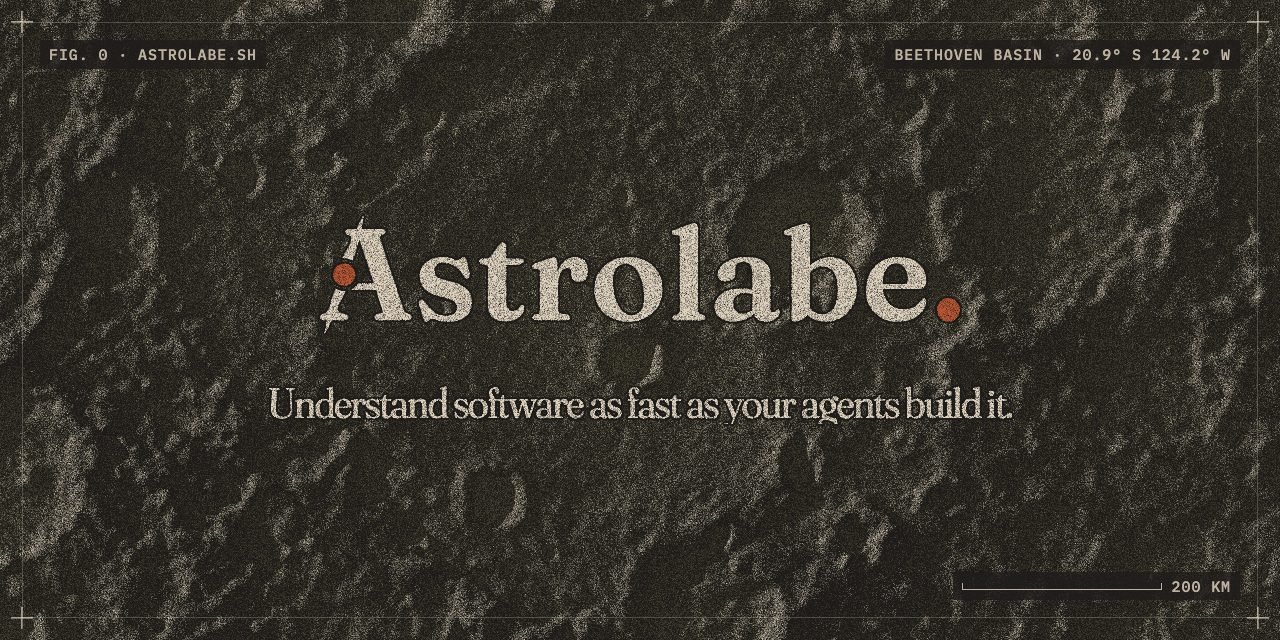
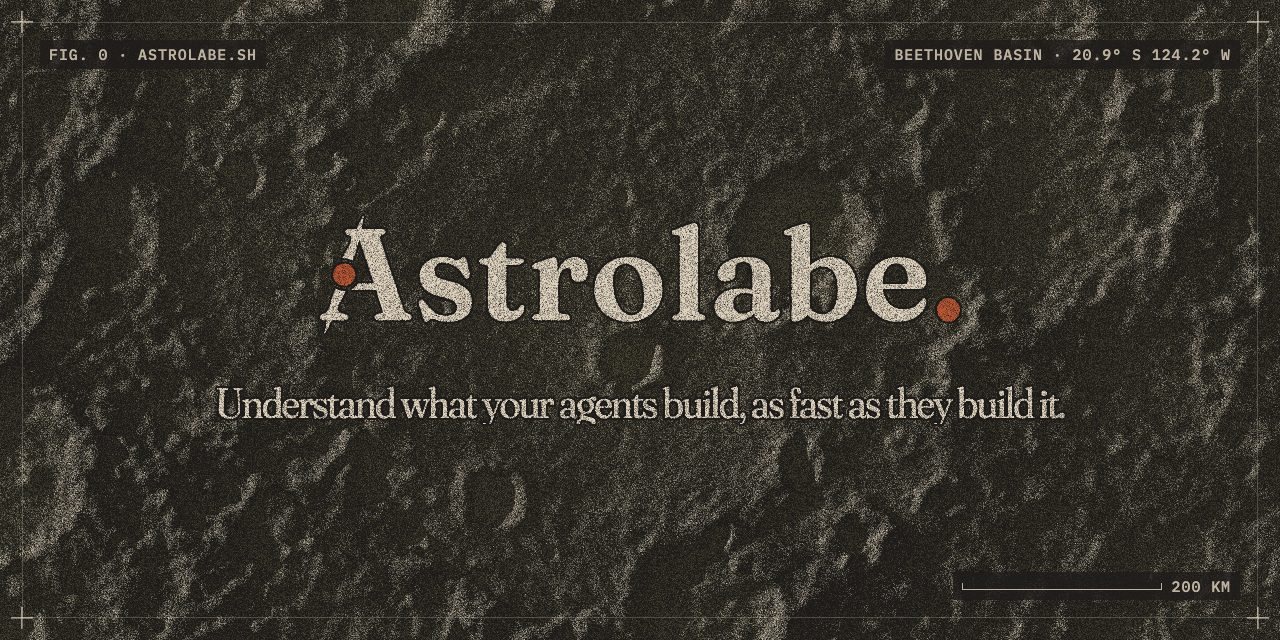
feat(landing): understand what your agents build, as fast as they build it
The headline drops "software": what a visitor understands is the agents' work. The share cards
are re-rendered with it. The two-sided cards now split their line at a comma as well as a full
stop, and the Sphinx card reads the rust from the theme now that the twilight palette is gone,
which had stopped the renderer.

Changed region(s): [[0.1562, 0.5938, 0.8438, 0.6562]]

diff --git a/apps/landing/src/site.js b/apps/landing/src/site.js
@@ -1,7 +1,7 @@
 // The page's positioning in one place: the hero's headline, the title and the share text read
 // from here, so a new line is one edit.
 
-export const headline = "Understand software as fast as your agents build it.";
+export const headline = "Understand what your agents build, as fast as they build it.";
 
 export const description =
   "Astrolabe is an agent development environment that helps your team understand what its agents build, at the speed they build it. Run Claude Code, Codex and Cursor side by side, read their code with the same code intelligence they use, see their changes drawn on a canvas, keep what they learn in a wiki and review their work as one change.";

diff --git a/apps/landing/cards/frame.js b/apps/landing/cards/frame.js
@@ -38,9 +38,9 @@ export function fit(el, width, max) {
 }
 
 // Sets the line either side of the picture, each half on two lines. It splits at the first full
-// stop, or at the space nearest the middle when the line is one sentence.
+// stop or comma, or at the space nearest the middle when there is neither.
 export function wings(line) {
-  const stop = line.indexOf(". ");
+  const stop = line.search(/[.,] /);
   const at = stop >= 0 ? stop + 1 : breakAt(line);
   for (const [el, half] of [
     [document.querySelector(".wing--left"), line.slice(0, at).trim()],

diff --git a/apps/landing/cards/sphinx.js b/apps/landing/cards/sphinx.js
@@ -242,7 +242,7 @@ async function printPlate(canvas, plate, palette) {
   gl.uniform3f(u.u_alpha, night ? 0.68 : 0.92, 0.8, 0.62 - 0.42 * palette.night);
   const b = night ? 0.42 : 0;
   gl.uniform4f(u.u_body, ...palette.paper.map((c) => c * 0.62 * b), b);
-  const rust = Twilight.hex(night ? palette.vars["--rust-text"] : "#a0492a");
+  const rust = palette.rust;
   gl.uniform4f(u.u_lamp, ...rust, LIGHT.lamp);
   gl.viewport(0, 0, canvas.width, canvas.height);
   gl.disable(gl.BLEND);
